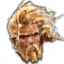
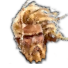
this is so

diff --git a/r/1/main.js b/r/1/main.js
@@ -2,32 +2,17 @@
     'use strict'
     //WORLDJS.seed( 'FTg4NCfth3BGzZdR3sWrVDYP' )
 
-    WORLDJS.zoom( 2 )
-
-    const player = WORLDJS.add( { sprite: { image: '/r/1/assets/frame' }, width: 1.5 * WORLDJS.CELLSIZE, height: 1.5 * WORLDJS.CELLSIZE, speed: 0.06, physical: true, rotationLock: true, layer: 1 } )
-    WORLDJS.add( player, { sprite: { image: '/r/1/assets/male' }, wind_affected: 1 } ) //, sprite_scale: .3 } )
-    function createCloud() {
-        let cloud = WORLDJS.add( { sprite: { image: '/r/1/assets/cloud' }, x: player.x, y: player.y, cloud_affected: 1, layer: 999, rotation: 2 * Math.random() * Math.PI, opacity: ( WORLDJS.noise( player.x, player.y ) + 1 ) * .15, rotationLock: true, sprite_scale: 5, translate_x_delta: -1000 - Math.random() * 2000, translate_y_delta: -1000 - Math.random() * 2000 } )
-        return cloud
-    }
-    //const cloud1 = createCloud()
-    //const cloud2 = createCloud()
-    //const cloud3 = createCloud()
-
-    // WORLDJS.addEventListener( player, 'translate', () => {
-    //     WORLDJS.translate( cloud1, player.x, player.y )
-    //     WORLDJS.translate( cloud2, player.x, player.y )
-    // } )
+    const player = WORLDJS.add( { sprite: { image: '/r/1/assets/frame' }, width: .5 * WORLDJS.CELLSIZE, height: .5 * WORLDJS.CELLSIZE, speed: 0.06, physical: true, rotationLock: true, layer: 1 } )
+    WORLDJS.add( player, { sprite: { image: '/r/1/assets/female' }, wind_affected: 1 } ) //, sprite_scale: .3 } )
 
     let playerspawn = null
     let campfire = null
 
     function createCampfire( x, y ) {
-        campfire = WORLDJS.add( { sprite: { image: '/r/1/assets/campfire' }, x: x, y: y, width: 1.5 * WORLDJS.CELLSIZE, height: 1.5 * WORLDJS.CELLSIZE, physical: true } )
+        campfire = WORLDJS.add( { sprite: { image: '/r/1/assets/campfire' }, x: x, y: y, width: .5 * WORLDJS.CELLSIZE, height: .5 * WORLDJS.CELLSIZE, physical: true } )
         WORLDJS.add( { sprite: { image: '/r/1/assets/flame' }, x: campfire.x, y: campfire.y, flame_affect: 1, opacity: .5, rotation: Math.random() * 2 * Math.PI } )
         WORLDJS.add( { sprite: { image: '/r/1/assets/flame' }, x: campfire.x + 3 * ( Math.random() - .5 ), y: campfire.y + 3 * ( Math.random() - .5 ), flame_affect: 1, opacity: .5, rotation: Math.random() * 2 * Math.PI, layer: campfire.layer + 1 } )
         WORLDJS.add( { sprite: { image: Math.random() > .5 ? '/r/1/assets/ember' : '/r/1/assets/ember1' }, x: x + 20 * ( Math.random() - .5 ), y: y + 20 * ( Math.random() - .5 ), ember_affect: 1, layer: 2 } )
-
     }
 
     WORLDJS.addEventListener( WORLDJS, 'oncellnew', cell => {
@@ -40,16 +25,16 @@
         let n10000 = WORLDJS.noise( nx * 10000, ny * 10000 )
         let n30000 = WORLDJS.noise( nx * 30000, ny * 30000 )
         if ( n50 < -.1 ) {
-            WORLDJS.add( { sprite: { image: n10000 > 0 ? '/r/1/assets/water' : '/r/1/assets/water1' }, x: cell.x, y: cell.y, width: WORLDJS.CELLSIZE, height: WORLDJS.CELLSIZE, opacity: .8, rotation: n10000 * Math.PI, layer: 1, swell_affected: 1 } )
+            WORLDJS.add( { sprite: { image: n10000 > 0 ? '/r/1/assets/water' : '/r/1/assets/water1' }, x: cell.x, y: cell.y, width: 1, height: 1, opacity: .5, rotation: n10000 * Math.PI, layer: 1, swell_affected: 1 } )
             return
         }
         let groundcover = Math.max( 0, Math.min( 1, ( ( ( Math.abs( n100 ) * 1.5 ) - .5 ) * .8 + n500 * .2 ) + .5 ) * 1 )
         let nodetype = 'water'
         if ( n50 > .03 ) {
-            WORLDJS.add( { sprite: { image: '/r/1/assets/groundgrass' }, x: cell.x + n10000 * 16, y: cell.y + n10000 * 16, width: WORLDJS.CELLSIZE, height: WORLDJS.CELLSIZE, layer: -2, opacity: groundcover * groundcover, rotation: n10000 * Math.PI } )
+            WORLDJS.add( { sprite: { image: '/r/1/assets/groundgrass' }, x: cell.x + n10000 * 16, y: cell.y + n10000 * 16, width: 1, height: 1, layer: -2, opacity: groundcover * groundcover, rotation: n10000 * Math.PI } )
             nodetype = 'groundgrass'
         } else if ( n100 > 0 ) {
-            WORLDJS.add( { sprite: { image: '/r/1/assets/sand' }, x: cell.x + n10000 * 16, y: cell.y + n10000 * 16, width: WORLDJS.CELLSIZE, height: WORLDJS.CELLSIZE, opacity: .8, layer: -1, rotation: n10000 } )
+            WORLDJS.add( { sprite: { image: '/r/1/assets/sand' }, x: cell.x + n10000 * 16, y: cell.y + n10000 * 16, width: 1, height: 1, opacity: .8, layer: -1, rotation: n10000 } )
             nodetype = 'sand'
         }
         let offset = n5000 * 25
@@ -63,6 +48,9 @@
                     let size = ( groundcover + ( n30000 + 1 ) * .5 ) * 64
                     WORLDJS.add( { sprite: { image: '/r/1/assets/grass0', y: -.2 }, x: cell.x + offset, y: cell.y + offset, width: .6 * size, height: .1 * size, rotation: n30000 * .3, sprite_scale: size / 128, layer: 1, wind_affected: 1, opacity: .6 } )
                     nodetype = 'grass'
+                } else if ( n30000 > 0.9 ) {
+                    let rat = WORLDJS.add( { sprite: { image: '/r/1/assets/frame' }, sprite_scale: .5, x: cell.x + offset, y: cell.y + offset, width: 1, height: 1, speed: 0.06, physical: true, rotationLock: true, layer: 1 } )
+                    WORLDJS.add( rat, { sprite: { image: '/r/1/assets/rat' }, sprite_scale: .5, wind_affected: 1 } )
                 }
             }
         }
@@ -107,11 +95,8 @@
             let y = Math.round( WORLDJS.noise( 0, WORLDJS.time * .0001 ) * 100000 )
             WORLDJS.view( x, y )
         } else if ( !campfire ) {
-            createCampfire( playerspawn.x - 45, playerspawn.y + 32 )
+            createCampfire( playerspawn.x - 2 * WORLDJS.CELLSIZE, playerspawn.y + 2 * WORLDJS.CELLSIZE )
             WORLDJS.translate( player, playerspawn.x, playerspawn.y )
-            // WORLDJS.translate( cloud1, player.x, player.y )
-            // WORLDJS.translate( cloud2, player.x, player.y )
-            // WORLDJS.translate( cloud3, player.x, player.y )
             WORLDJS.follow( player )
         }
 
@@ -154,13 +139,14 @@
                 node.opacity -= Math.random() * node.ember_affect * .02
             }
         } else if ( 0 < node.smoke_affect ) {
-            if ( node.opacity < 0.05 ) {
+            let age = WORLDJS.time - node.created
+            node.opacity -= age * .00000001
+            if ( node.opacity <= 0 || age > 20000 ) {
                 WORLDJS.remove( node )
             } else {
-                node.sprite_scale = .5 + ( WORLDJS.time - node.created ) * .001
-                node.opacity -= ( WORLDJS.time - node.created ) * .00000001
-                node.x += WORLDJS.elapsed * .006 + global_noise * .5
-                node.y -= WORLDJS.elapsed * .01 + global_noise * .5
+                node.sprite_scale = .5 + age * .001
+                node.x += WORLDJS.noise( WORLDJS.time * .0001, 0 ) * .2 * ( 2 - node.opacity )
+                node.y -= WORLDJS.noise( 0, WORLDJS.time * .0001 ) * .2 * ( 2 - node.opacity )
             }
         } else if ( 0 < node.wind_affected ) {
             let scaled_time = WORLDJS.time * .0001
@@ -174,16 +160,6 @@
             let noise_50_50 = positional_noise * .5 + global_noise * .5
             node.rotation_delta = ( positional_noise * .3 + global_noise * .7 ) * .5 * node.swell_affected
             node.sprite_scale_delta = ( 1 + noise_50_50 ) * 10 * node.swell_affected
-        } else if ( 0 < node.cloud_affected ) {
-            node.translate_x_delta += WORLDJS.elapsed * .03
-            node.translate_y_delta += WORLDJS.elapsed * .03
-            if ( node.translate_x_delta > 800 ) {
-                node.rotation = Math.PI * Math.random() * 2
-                node.opacity = ( WORLDJS.noise( node.x, node.y ) + 1 ) * .15
-                node.translate_x_delta = -800
-                node.translate_y_delta = -1000 - Math.random() * 2000
-                WORLDJS.translate( node, player.x, player.y )
-            }
         }
 
     } )

diff --git a/r/1/world.js b/r/1/world.js
@@ -26,7 +26,6 @@
         if ( void 0 === arr ) return
         arr = arr.slice( 0 )
         for ( let i = 0, l = arr.length; i < l; i++ ) arr[ i ].call( object, ...args )
-        //setTimeout( () => { }, 0 )
     }
     function set( vec, x, y ) {
         vec.x = x
@@ -305,7 +304,7 @@
         node.opacity = opacity
         return node
     }
-    WORLDJS.CELLSIZE = 16
+    WORLDJS.CELLSIZE = 24
     const cells = {}
     WORLDJS.cellCOLROW = ( col, row, weigh ) => {
         let key = col + ',' + row
@@ -505,7 +504,7 @@
         let overlapped = [ WORLDJS.ray( pos, pos, node, true )[ 0 ] /* centrecell, topleftcell, ..., bottomrightcell */ ]
         width = typeof width !== 'undefined' ? width : node.width
         height = typeof height !== 'undefined' ? height : node.height
-        if ( width <= WORLDJS.CELLSIZE && height <= WORLDJS.CELLSIZE ) return testcollision ? 0 === overlapped[ 0 ].weight : overlapped
+        //if ( width <= WORLDJS.CELLSIZE && height <= WORLDJS.CELLSIZE ) return testcollision ? 0 === overlapped[ 0 ].weight : overlapped
         let a = { x: 0, y: 0 }
         let b = { x: 0, y: 0 }
         let hx = .5 * width
@@ -599,6 +598,9 @@
         sprite.border && ( ctx.beginPath(), ctx.strokeStyle = sprite.bordercolour, ctx.lineWidth = .5 * sprite.border, ctx.rect( .5, .5, width - 1, height - 1 ), ctx.stroke() )
     }
     const canvas = document.createElement( 'canvas' )
+    canvas.style.width = canvas.style.height = '100%'
+    canvas.width = 640
+    canvas.height = ( window.innerHeight / window.innerWidth ) * canvas.width
     document.body.appendChild( canvas )
     const ctx = canvas.getContext( '2d', { alpha: false } )
     ctx.imageSmoothingEnabled = false
@@ -661,8 +663,7 @@
         WORLDJS.inview_nodes.sort( comparator )
     }
     function resize() {
-        canvas.width = window.innerWidth
-        canvas.height = window.innerHeight
+        canvas.height = ( window.innerHeight / window.innerWidth ) * canvas.width
         updateViewport()
     }
     WORLDJS.setOverdraw = overdraw => {
@@ -746,8 +747,8 @@
     }
     window.addEventListener( 'mousemove', e => {
         if ( 0 === WORLDJS.mouse.screen.x - e.x && 0 === WORLDJS.mouse.screen.y - e.y ) return
-        WORLDJS.mouse.screen.x = e.x
-        WORLDJS.mouse.screen.y = e.y
+        WORLDJS.mouse.screen.x = e.x / window.innerWidth * canvas.width
+        WORLDJS.mouse.screen.y = e.y / window.innerHeight * canvas.height
         WORLDJS.mouse.world.x = ( WORLDJS.mouse.screen.x - .5 * canvas.width ) / viewport.scale + viewport.x
         WORLDJS.mouse.world.y = ( WORLDJS.mouse.screen.y - .5 * canvas.height ) / viewport.scale + viewport.y
         WORLDJS.dispatchEvent( WORLDJS, 'mousemove', WORLDJS.mouse )

diff --git a/water/water.js b/water/water.js
@@ -1,20 +1,25 @@
 ( function () {
     'use strict'
-    WORLDJS.zoom( 3 )
+    WORLDJS.zoom( 2 )
     WORLDJS.addEventListener( WORLDJS, 'oncellnew', cell => {
         let nx = ( cell.x + 50000 ) / 100000
         let ny = ( cell.y + 50000 ) / 100000
         let n10000 = WORLDJS.noise( nx * 10000, ny * 10000 )
         WORLDJS.add( { sprite: { image: n10000 > 0 ? '/r/1/assets/water' : '/r/1/assets/water1' }, x: cell.x, y: cell.y, width: WORLDJS.CELLSIZE, height: WORLDJS.CELLSIZE, opacity: .8, rotation: n10000 * Math.PI, swell_affected: 1 } )
     } )
-    let swell = .5
+    let global_noise
     WORLDJS.start( () => {
+        global_noise = WORLDJS.noise( WORLDJS.time * .0001, 0 )
     }, node => {
-        let sprite = WORLDJS.sprites[ node.sprite.name ]
         if ( 0 < node.swell_affected ) {
-            let n = WORLDJS.time * swell * .0001
-            node.rotation_delta = WORLDJS.noise( node.x / 900 + n, node.y / 900 + n ) * node.swell_affected * 2
-            node.sprite_scale_delta = ( .5 + WORLDJS.noise( node.x / 1200 + n, node.y / 1200 + n ) ) * node.swell_affected * sprite.half_width * .4
+            // let n = WORLDJS.time * swell * .0001
+            // node.rotation_delta = WORLDJS.noise( node.x / 900 + n, node.y / 900 + n ) * node.swell_affected * 2
+            // node.sprite_scale_delta = ( .5 + WORLDJS.noise( node.x / 1200 + n, node.y / 1200 + n ) ) * node.swell_affected * sprite.half_width * .4
+            let scaled_time = WORLDJS.time * .0001
+            let positional_noise = WORLDJS.noise( node.x + scaled_time, node.y + scaled_time )
+            let noise_50_50 = positional_noise * .5 + global_noise * .5
+            node.rotation_delta = ( positional_noise * .3 + global_noise * .7 ) * .5 * node.swell_affected
+            node.sprite_scale_delta = ( 1 + noise_50_50 ) * 10 * node.swell_affected
         }
     } )
 } )()

diff --git a/r/test/fire/fire.js b/r/test/fire/fire.js
@@ -1,9 +1,9 @@
 ( function () {
     'use strict'
-    WORLDJS.zoom( 5 )
+    WORLDJS.zoom( 2 )
 
     function createCampfire( x, y ) {
-        let campfire = WORLDJS.add( { sprite: { image: '/r/1/assets/campfire' }, x: x, y: y, rotation: Math.random(), width: 1.5 * WORLDJS.CELLSIZE, height: WORLDJS.CELLSIZE, physical: true } )
+        let campfire = WORLDJS.add( { sprite: { image: '/r/1/assets/campfire' }, x: x, y: y, width: 1.1 * WORLDJS.CELLSIZE, height: 1.1 * WORLDJS.CELLSIZE, physical: true } )
         WORLDJS.add( { sprite: { image: '/r/1/assets/flame' }, x: campfire.x, y: campfire.y, flame_affect: 1, opacity: .5, rotation: Math.random() * 2 * Math.PI } )
         WORLDJS.add( { sprite: { image: '/r/1/assets/flame' }, x: campfire.x + 3 * ( Math.random() - .5 ), y: campfire.y + 3 * ( Math.random() - .5 ), flame_affect: 1, opacity: .5, rotation: Math.random() * 2 * Math.PI, layer: campfire.layer + 1 } )
         WORLDJS.add( { sprite: { image: Math.random() > .5 ? '/r/1/assets/ember' : '/r/1/assets/ember1' }, x: x + 20 * ( Math.random() - .5 ), y: y + 20 * ( Math.random() - .5 ), ember_affect: 1, layer: 2 } )
@@ -40,8 +40,8 @@
             } else {
                 node.sprite_scale = .5 + ( WORLDJS.time - node.created ) * .001
                 node.opacity -= ( WORLDJS.time - node.created ) * .00000001
-                node.x += WORLDJS.elapsed * .006 + global_noise * .5
-                node.y -= WORLDJS.elapsed * .01 + global_noise * .5
+                node.x += WORLDJS.noise( WORLDJS.time * .0001, 0 ) * .2 * ( 2 - node.opacity )
+                node.y -= WORLDJS.noise( 0, WORLDJS.time * .0001 ) * .2 * ( 2 - node.opacity )
             }
         }
     } )

diff --git a/r/1/index.html b/r/1/index.html
@@ -4,7 +4,7 @@
 <head>
     <meta charset="utf-8">
     <meta name="viewport" content="width=device-width, initial-scale=1, maximum-scale=1, user-scalable=no" />
-    <title>1d</title>
+    <title>r1</title>
     <style>
         body {
             margin: 0;
